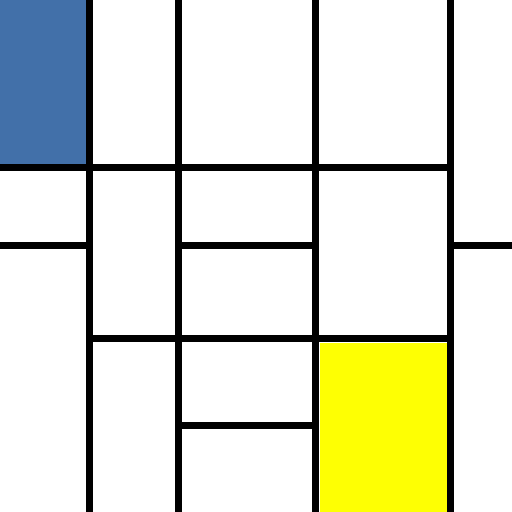
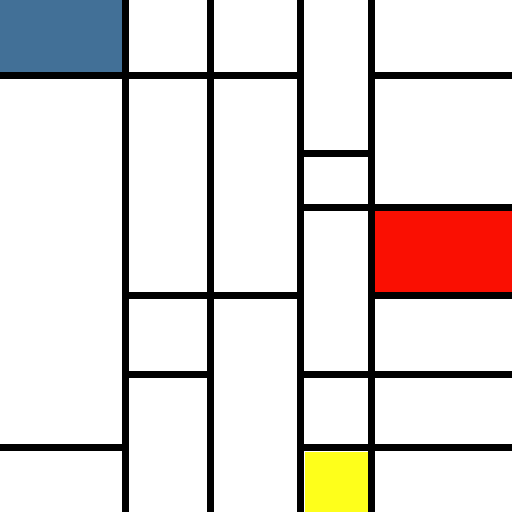
Add mondriaan center right roi color

diff --git a/src/mondriaan.py b/src/mondriaan.py
@@ -16,6 +16,8 @@ BGR_B_LOWER = (125, 112, 66)
 BGR_B_UPPER = (210, 112, 66)
 BGR_Y_LOWER = (0, 255, 254)
 BGR_Y_UPPER = (40, 255, 254)
+BGR_R_LOWER = (2, 15, 215)
+BGR_R_UPPER = (2, 15, 250)
 
 
 def create_canvas(h, w, c):
@@ -35,7 +37,8 @@ def random_color(bgr_lower, bgr_upper, index):
 
 
 def roi_fill_color(img, roi, color):
-    img[roi[0][1]:roi[1][1], roi[0][0]:roi[1][0]] = color
+    if roi:
+        img[roi[0][1]:roi[1][1], roi[0][0]:roi[1][0]] = color
 
 
 def draw_v_lines(img, h_step_min, h_step_max, end_dist_thresh, color, thickness):
@@ -112,11 +115,27 @@ def roi_top_left(img, v_lines, h_lines, thickness):
                 break
         if pt2:
             break
-    return (pt1, pt2)
+    return (pt1, pt2) if pt1 and pt2 else None
 
 
-def roi_center_right(img, v_lines, h_lines):
-    pass
+def roi_center_right(img, v_lines, h_lines, thickness):
+    h_canvas, w_canvas, _ = img.shape
+    pt1, pt2 = None, None
+    c_canvas = int(h_canvas / 2)
+
+    for h_lines_at_v_step in h_lines:
+        lines, h = h_lines_at_v_step[0], h_lines_at_v_step[1]
+        for h_line_at_v_step in lines[::-1]:
+            h_line_start, h_line_end = h_line_at_v_step[0], h_line_at_v_step[1]
+            if h_line_end == w_canvas and h < c_canvas:
+                pt1 = (int(h_line_start + thickness - 1), (h + thickness - 1))
+            if h_line_end == w_canvas and h > c_canvas:
+                pt2 = (int(w_canvas), int(h - thickness / 2))
+                break
+        if pt2:
+            break
+
+    return (pt1, pt2) if pt1 and pt2 else None
 
 
 def roi_bottom_right(img, v_lines, h_lines, thickness):
@@ -133,11 +152,7 @@ def roi_bottom_right(img, v_lines, h_lines, thickness):
                 break
         if pt2:
             break
-    return (pt1, pt2)
-
-
-def roi_center_left(img, v_lines, h_lines):
-    pass
+    return (pt1, pt2) if pt1 and pt2 else None
 
 
 img = create_canvas(CANVAS_HEIGHT, CANVAS_WIDTH, 255)
@@ -145,18 +160,16 @@ img = create_canvas(CANVAS_HEIGHT, CANVAS_WIDTH, 255)
 v_lines = draw_v_lines(img, H_STEP_MIN, H_STEP_MAX, END_DIST_THRESH, COLOR_BLACK_BGR, LINE_THICKNESS)
 h_lines = draw_h_lines(img, v_lines, V_STEP_MIN, V_STEP_MAX, END_DIST_THRESH, COLOR_BLACK_BGR, LINE_THICKNESS)
 
-
-# print(v_lines)
-# print(h_lines)
-# for asd in h_lines[::-1]:
-#     print(asd)
-
 roi = roi_top_left(img, v_lines, h_lines, LINE_THICKNESS)
 color = random_color(BGR_B_LOWER, BGR_B_UPPER, 0)
 roi_fill_color(img, roi, color)
 
 roi = roi_bottom_right(img, v_lines, h_lines, LINE_THICKNESS)
 color = random_color(BGR_Y_LOWER, BGR_Y_UPPER, 0)
+roi_fill_color(img, roi, color)
+
+roi = roi_center_right(img, v_lines, h_lines, LINE_THICKNESS)
+color = random_color(BGR_R_LOWER, BGR_R_UPPER, 2)
 roi_fill_color(img, roi, color)
 
 cv2.imshow('mondriaan', img)
